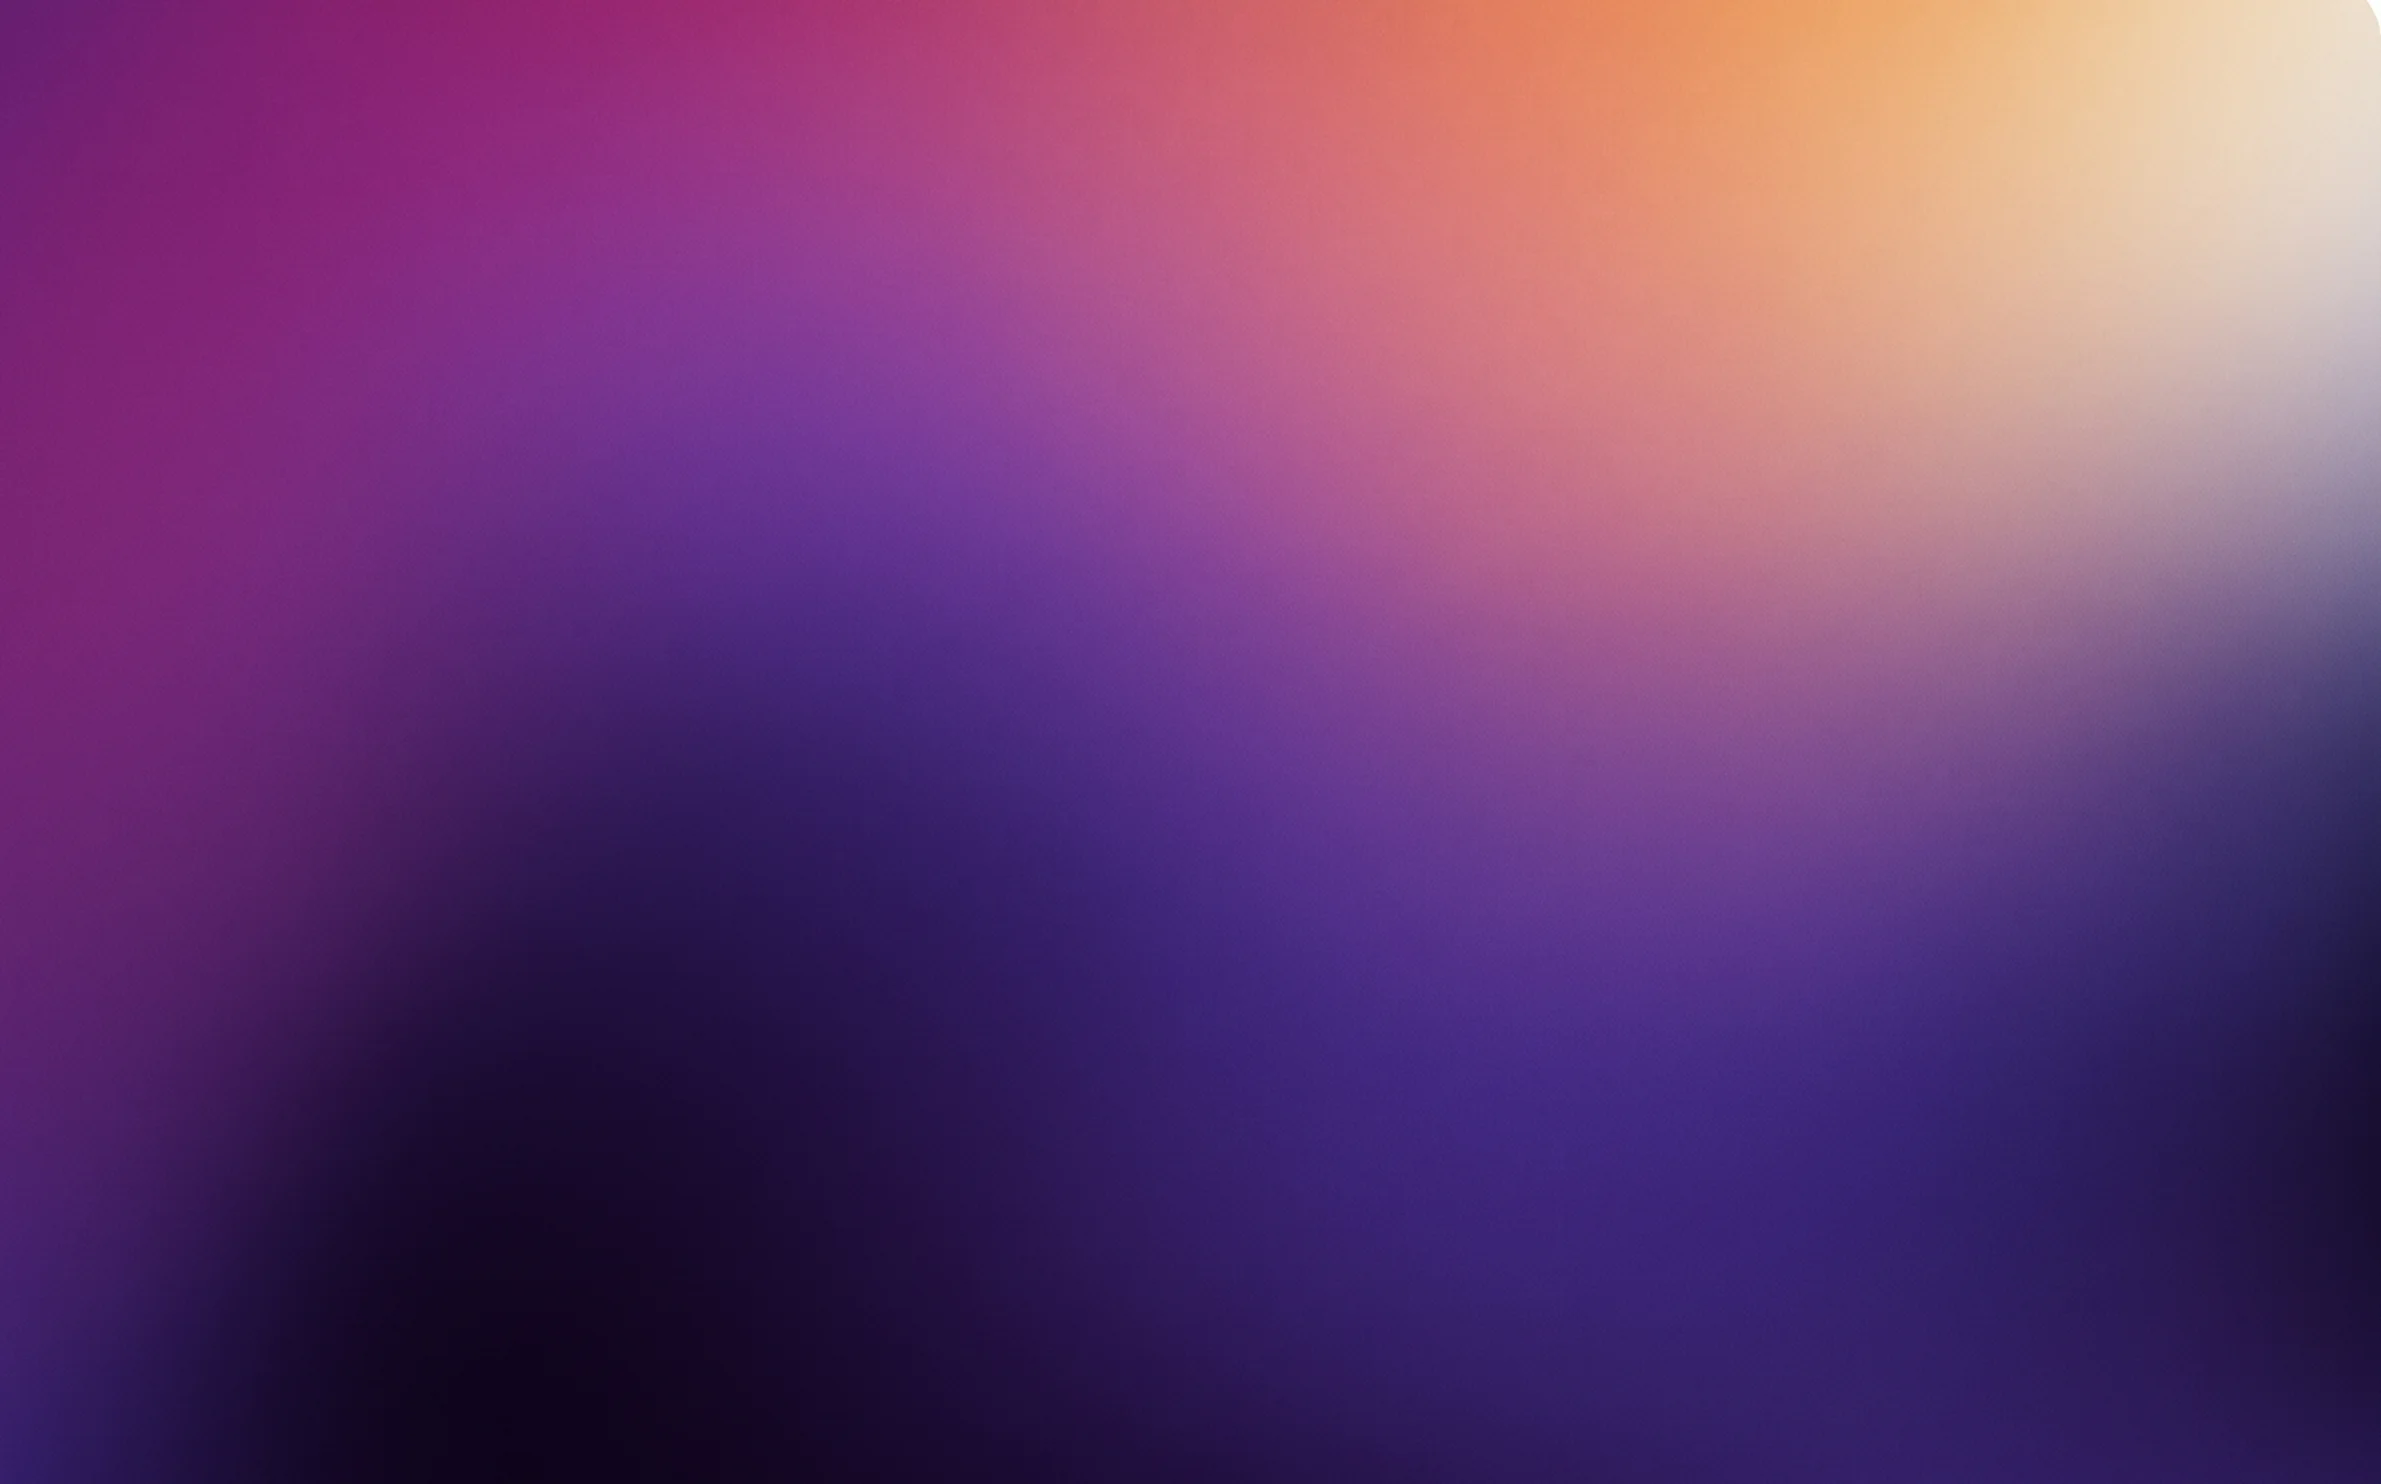
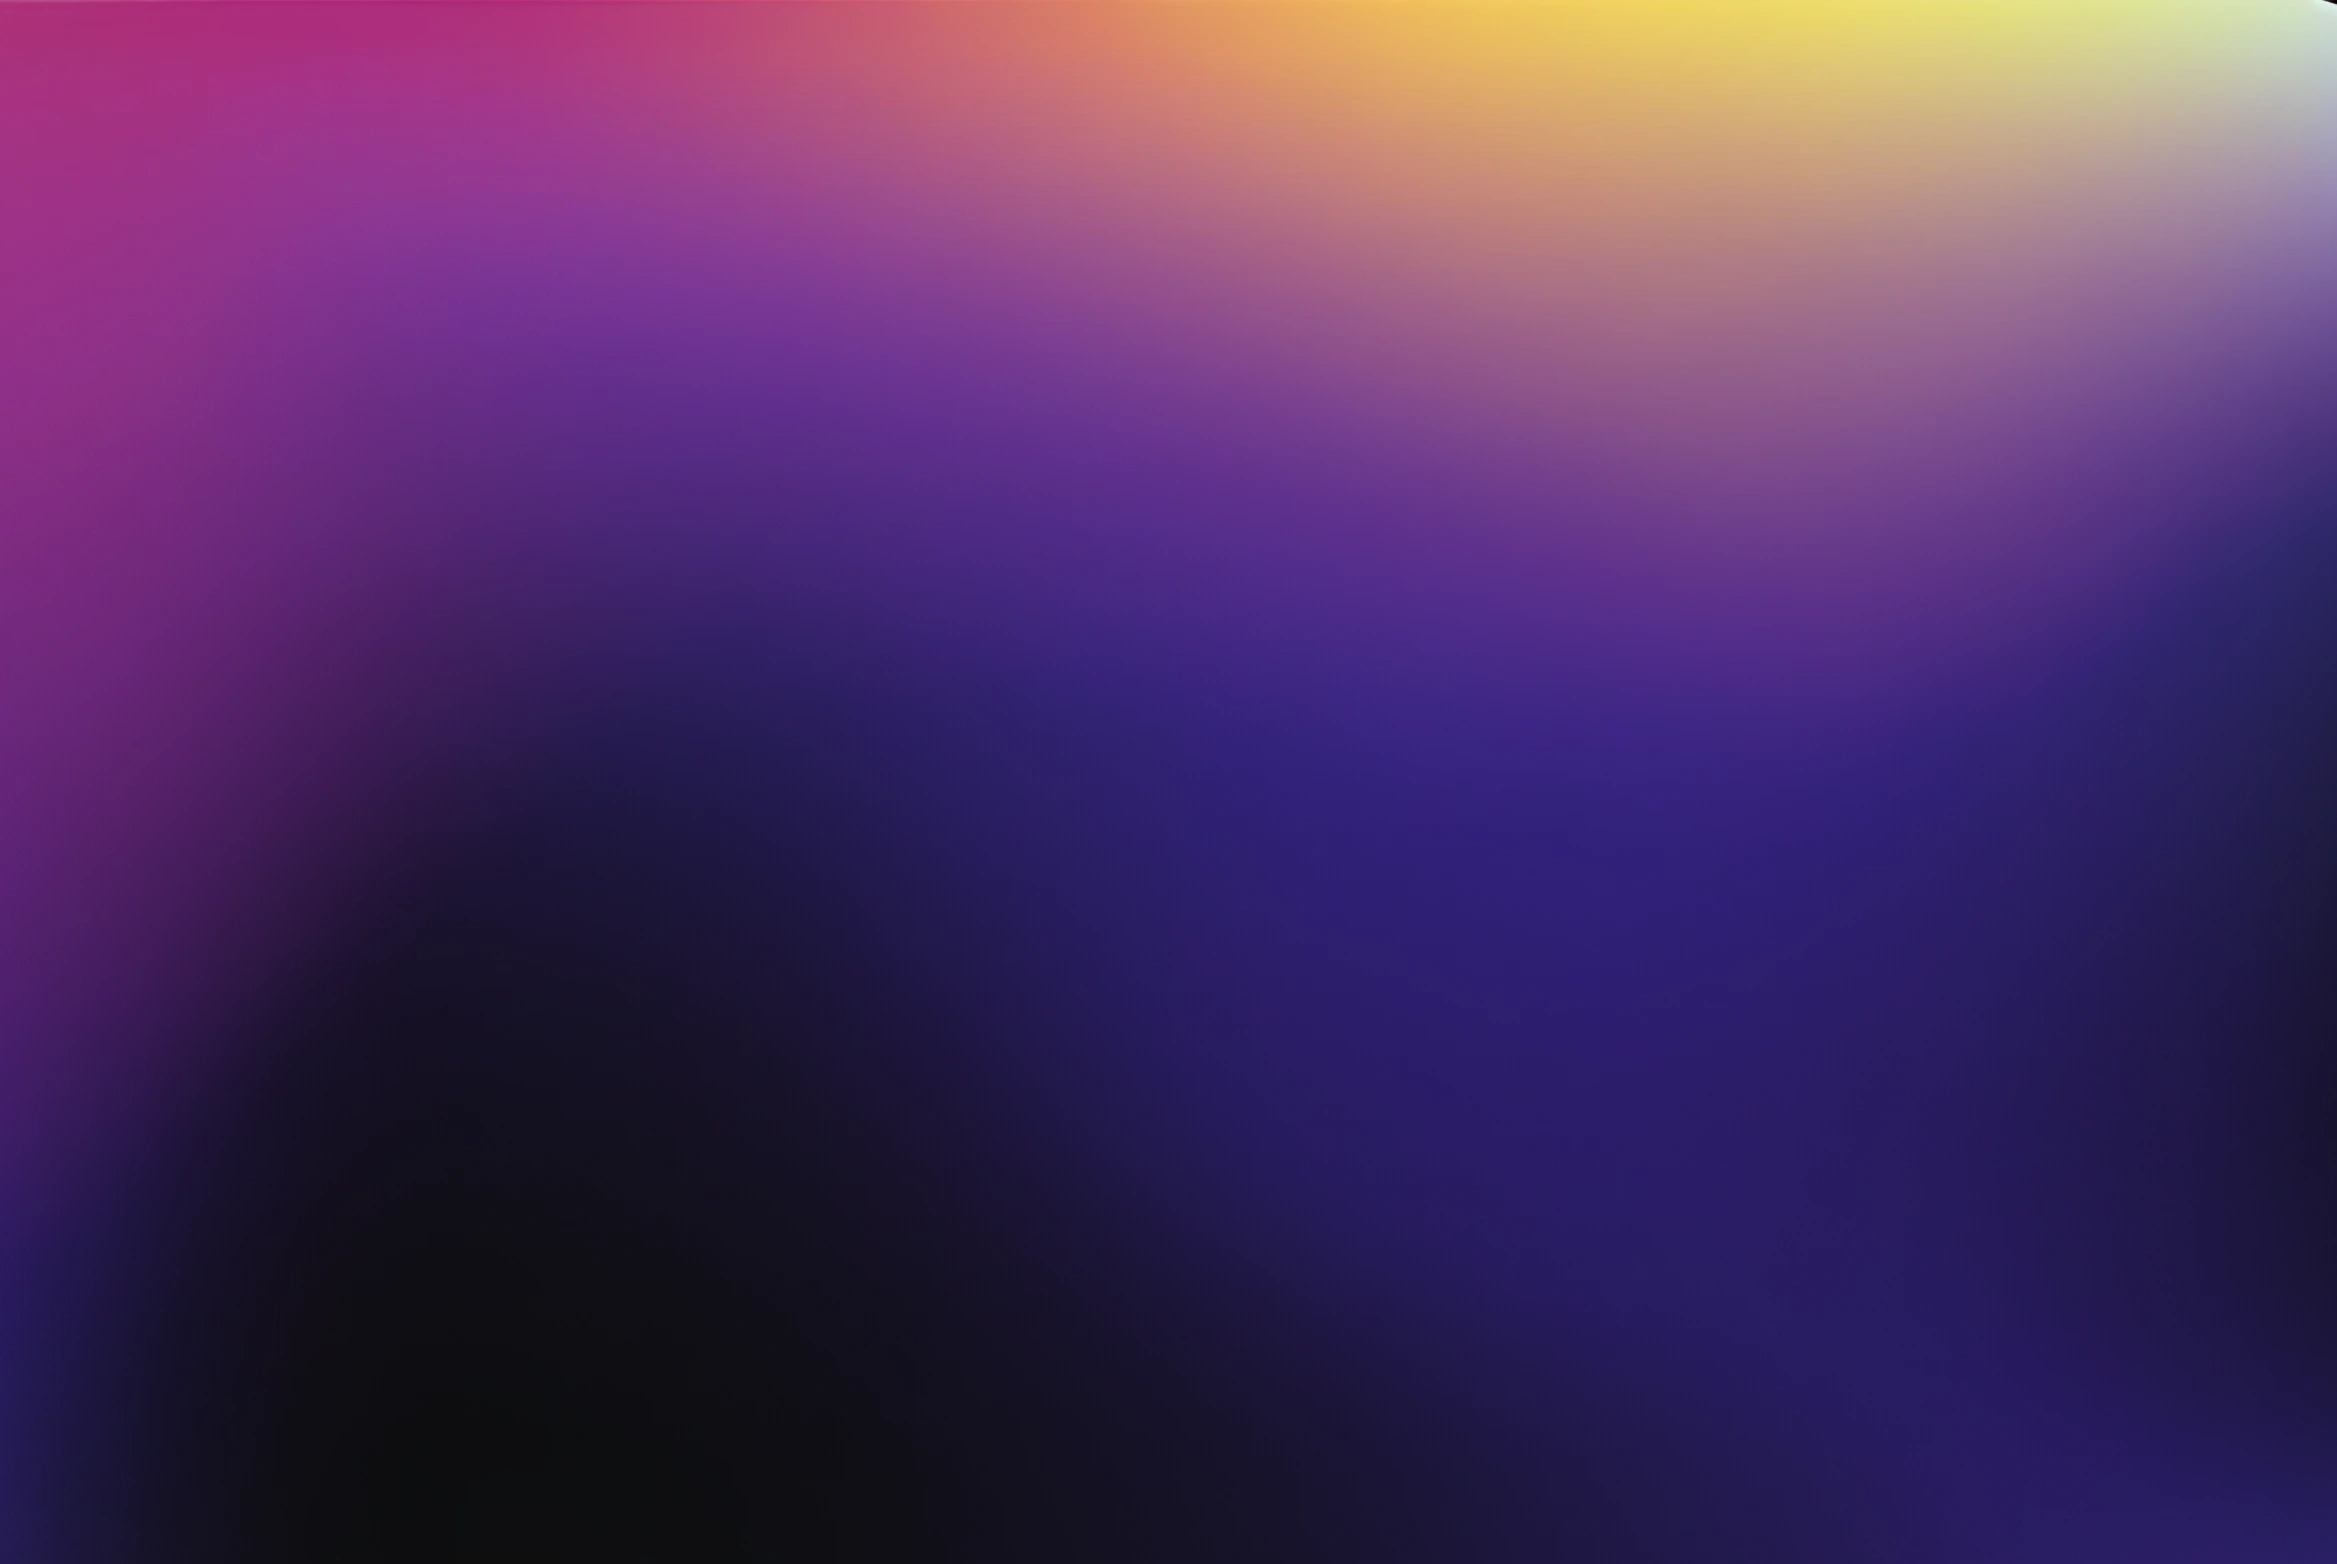
feat: substitui gradiente CSS por foto de fundo real
Troca o gradiente linear do body por uma foto (comprimida em webp,
~53KB), com background-attachment fixed para evitar zoom excessivo
(o cover calculava o tamanho pela altura da pagina inteira). O Contact
perde o gradiente proprio e passa a deixar essa mesma imagem aparecer
por tras, mantendo a continuidade visual com o Hero.

diff --git a/src/theme.css b/src/theme.css
@@ -23,16 +23,11 @@ body {
   color: var(--color-ink);
   font-family: var(--font-body);
   background-color: var(--color-void);
-  background-image: linear-gradient(
-    155deg,
-    var(--color-void) 0%,
-    var(--color-indigo) 45%,
-    var(--color-violet) 72%,
-    var(--color-void) 100%
-  );
+  background-image: url('./assets/background.webp');
   background-position: center;
   background-size: cover;
   background-repeat: no-repeat;
+  background-attachment: fixed;
 }
 
 /* #root {

diff --git a/src/components/contact/Contact.module.css b/src/components/contact/Contact.module.css
@@ -9,13 +9,6 @@
   right: 0;
   z-index: 0;
   min-height: 100vh;
-  background-image: linear-gradient(
-    155deg,
-    var(--color-void) 0%,
-    var(--color-indigo) 45%,
-    var(--color-violet) 72%,
-    var(--color-void) 100%
-  );
   visibility: hidden;
 }
 
